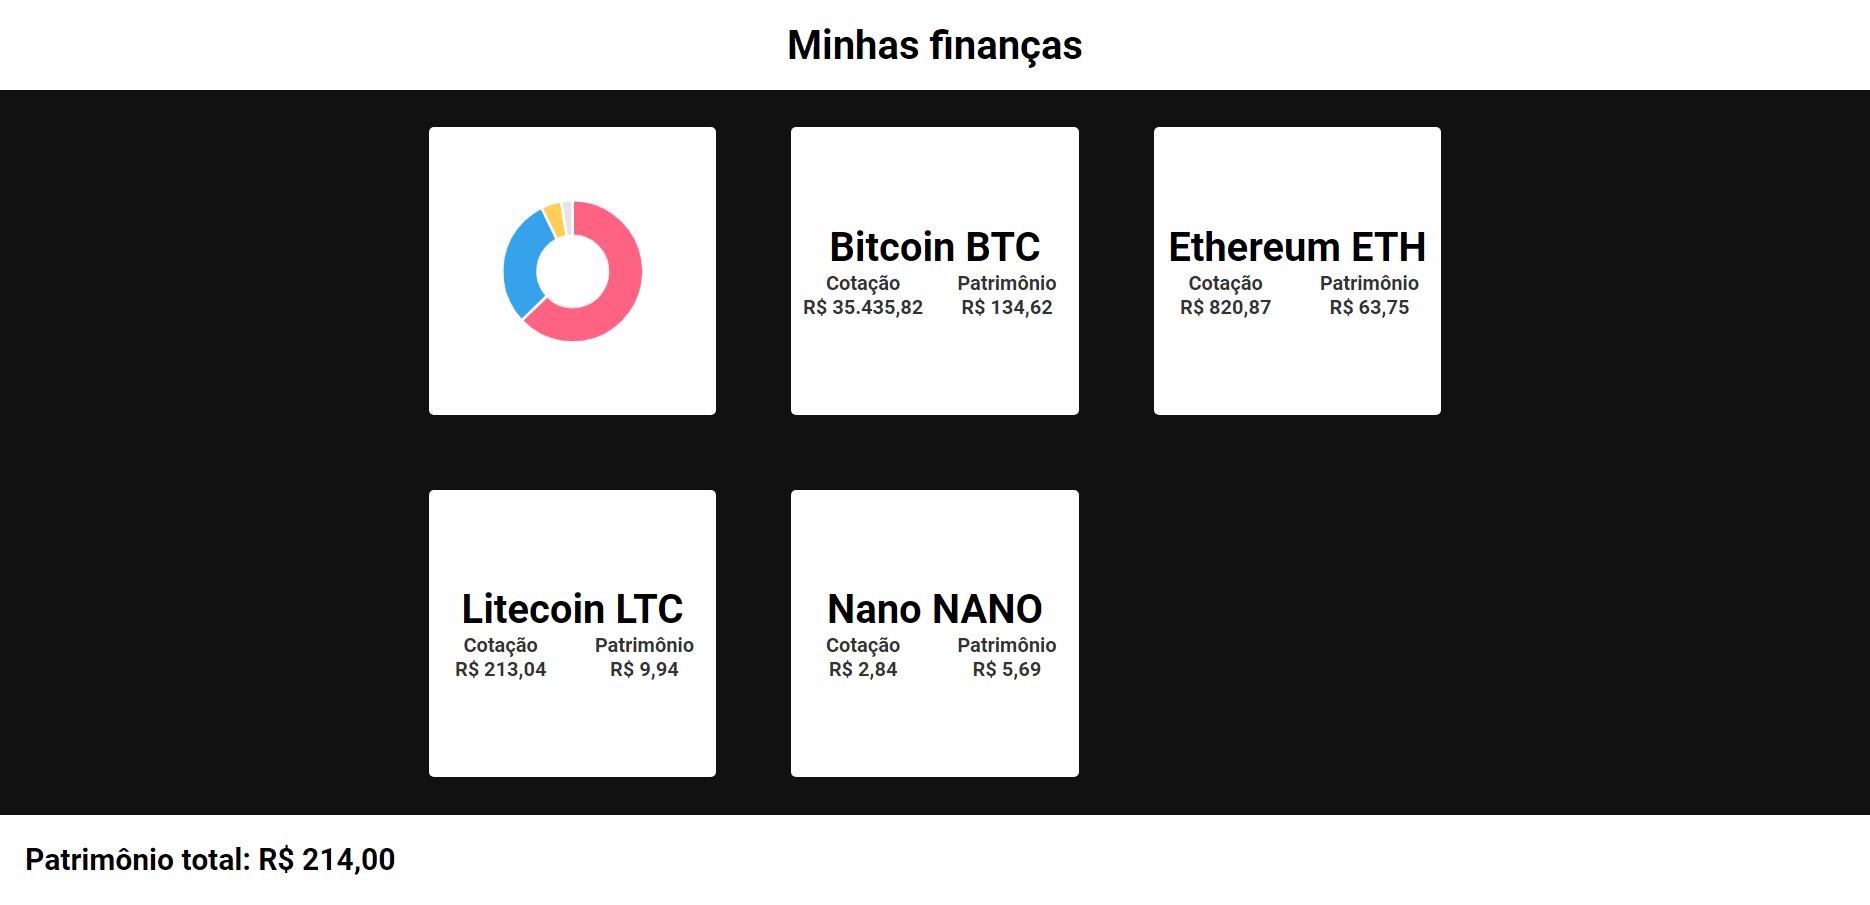
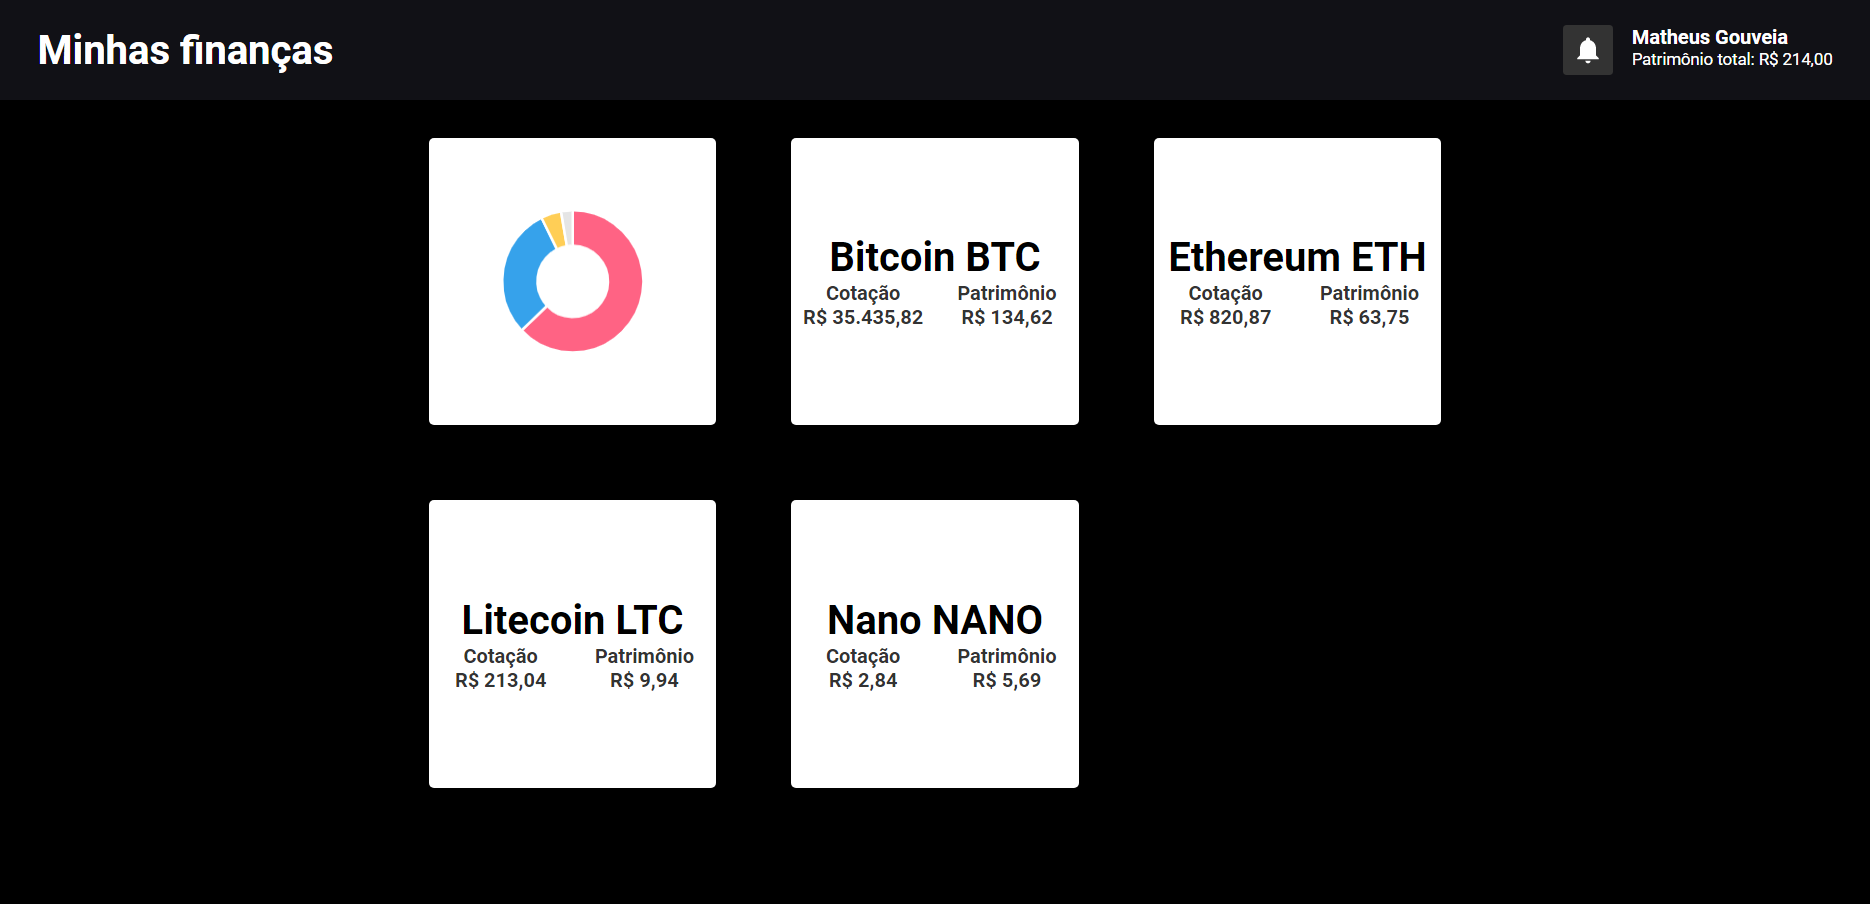
Ajustes no layout

diff --git a/src/pages/Dashboard/styles.js b/src/pages/Dashboard/styles.js
@@ -1,23 +1,54 @@
 import styled from "styled-components";
 
+export const Container = styled.div`
+	display: flex;
+	flex-direction: column;
+	align-items: center;
+	background: #000;
+	height: 100%;
+`;
+
 export const Header = styled.header`
 	display: flex;
-	background: #fff;
+	background: #111116;
 	width: 100%;
 	height: 80px;
 	align-items: center;
-	justify-content: center;
+	justify-content: space-between;
+	color: #fff;
+	padding-left: 30px;
+	padding-right: 30px;
 `;
 
 export const Title = styled.h1``;
 
-export const Container = styled.div`
+export const Profile = styled.div`
 	display: flex;
-	flex-direction: column;
-	justify-content: space-between;
-	align-items: center;
-	background: #111;
-	height: 100%;
+	flex-direction: row;
+	justify-content: center;
+
+	button {
+		display: flex;
+		justify-content: center;
+		align-items: center;
+		background: #333;
+		width: 40px;
+		height: 40px;
+		border-radius: 3px;
+		border: none;
+		color: #fff;
+
+		svg {
+			height: 25px;
+			width: 25px;
+		}
+	}
+
+	div {
+		display: flex;
+		flex-direction: column;
+		margin-left: 15px;
+	}
 `;
 
 export const Content = styled.div`
@@ -57,13 +88,14 @@ export const Item = styled.div`
 
 export const Footer = styled.footer`
 	display: flex;
-	background: #fff;
+	background: #111116;
 	width: 100%;
 	height: 80px;
 	align-items: center;
 	justify-content: flex-start;
+	color: #fff;
 `;
 
 export const Total = styled.h2`
-	margin-left: 20px;
+	margin-left: 30px;
 `;

diff --git a/src/pages/Dashboard/index.js b/src/pages/Dashboard/index.js
@@ -1,14 +1,16 @@
 import React, { useEffect, useState } from "react";
 import { Doughnut } from "react-chartjs-2";
+import { MdNotifications } from "react-icons/md";
 
 import {
 	Header,
 	Title,
+	Profile,
 	Container,
 	Content,
 	Item,
-	Footer,
-	Total,
+	// Footer,
+	// Total,
 } from "./styles";
 import { useSelector } from "react-redux";
 
@@ -61,6 +63,21 @@ export default function Dashboard() {
 		<Container>
 			<Header>
 				<Title>Minhas finanças</Title>
+				<Profile>
+					<button type="button">
+						<MdNotifications />
+					</button>
+					<div>
+						<strong>Matheus Gouveia</strong>
+						<small>
+							Patrimônio total:{" "}
+							{Intl.NumberFormat("pt-BR", {
+								style: "currency",
+								currency: "BRL",
+							}).format(total)}
+						</small>
+					</div>
+				</Profile>
 			</Header>
 
 			<Content>
@@ -98,7 +115,7 @@ export default function Dashboard() {
 				))}
 			</Content>
 
-			<Footer>
+			{/* <Footer>
 				<Total>
 					Patrimônio total:{" "}
 					{Intl.NumberFormat("pt-BR", {
@@ -106,7 +123,7 @@ export default function Dashboard() {
 						currency: "BRL",
 					}).format(total)}
 				</Total>
-			</Footer>
+			</Footer> */}
 		</Container>
 	);
 }

diff --git a/src/styles/global.js b/src/styles/global.js
@@ -15,6 +15,10 @@ const GlobalStyle = createGlobalStyle`
 		height: 100%;
 	}
 
+	button {
+		cursor: pointer;
+	}
+
 	body {
 		-webkit-font-smoothing: antialiased;
 	}
